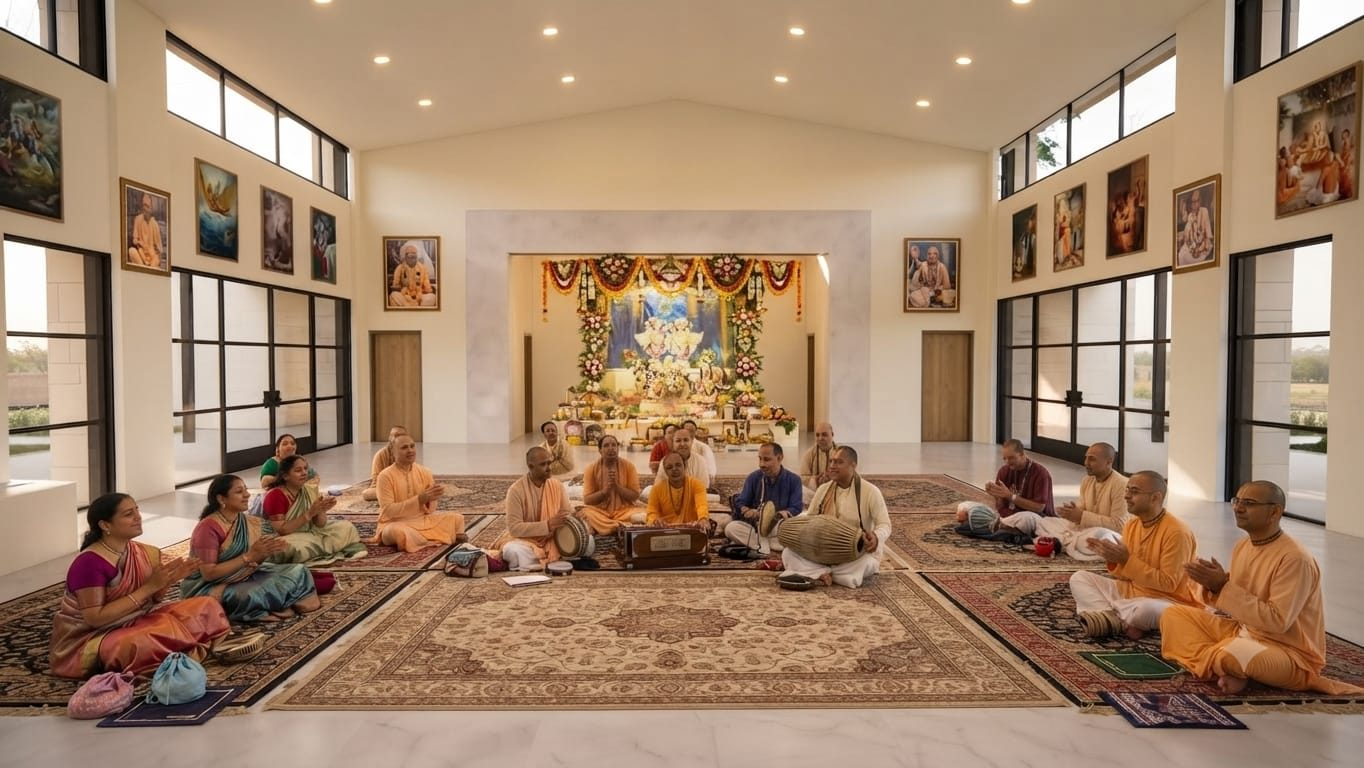
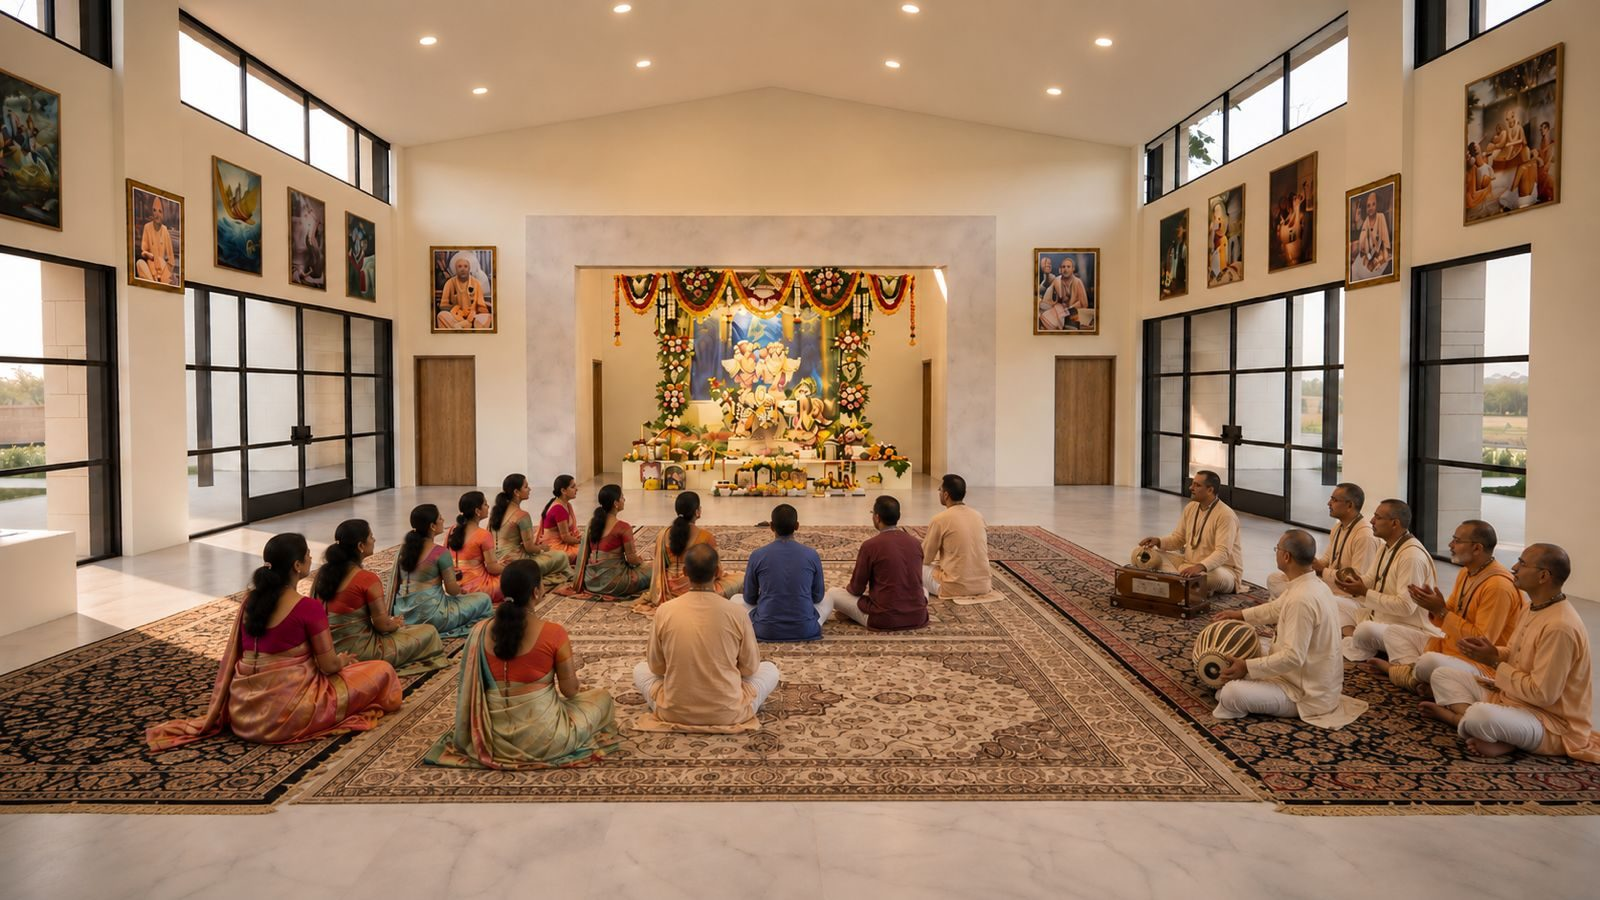
update 1 sept - saurabh
hero change- contact update- photos update

diff --git a/src/lib/data.ts b/src/lib/data.ts
@@ -20,6 +20,7 @@ export const site = {
   },
   // Direct temple contacts.
   contactPeople: [
+    { name: "Abhay Charan Das", phone: "+1-512-762-6644" },
     { name: "Caitanyavani Das", phone: "+1-512-689-6971" },
     { name: "Sravanananda Das", phone: "+1-408-594-8864" },
   ],
@@ -138,7 +139,7 @@ export const weeklySchedule = [
 export const heroSlides = [
   {
     key: "sunday",
-    image: "/temple-renderings/interior-02-great-hall.jpg",
+    image: "/hero/sunday-program.jpg",
     eyebrow: "Every Sunday",
     title: "Join Us for the Sunday Program",
     body: "Kirtan, scripture study, and a free feast — every Sunday, open to everyone.",
@@ -150,19 +151,6 @@ export const heroSlides = [
     ],
   },
   {
-    key: "weekly",
-    image: "/temple-renderings/interior-01-altar-hall.jpg",
-    eyebrow: "Every Day",
-    title: "Temple Life, All Week Long",
-    body: "Morning and evening aarti, daily scripture class, and Sunday celebrations — there's always a way to connect.",
-    primaryCta: { label: "View Daily Programs", href: "/locations/daily" },
-    schedule: [
-      { time: "4:30 AM", title: "Mangala Aarti & Tulasi Worship — Daily" },
-      { time: "7:15 AM", title: "Srimad Bhagavatam Class — Daily" },
-      { time: "6:30 PM", title: "Gaura Aarti — Daily" },
-    ],
-  },
-  {
     key: "temple",
     image: "/temple-renderings/exterior-04-front-entrance-pool.jpg",
     eyebrow: "A Gift for Generations",
@@ -171,7 +159,61 @@ export const heroSlides = [
     primaryCta: { label: "Explore the New Temple", href: "/locations/new-temple" },
     stat: givingProgressLabel(),
   },
+  {
+    key: "govardhan",
+    image: "/hero/govardhan-puja.jpg",
+    eyebrow: "Annual Festival",
+    title: "Govardhan Puja",
+    body: "An Annakuta offering of 108 preparations and a re-enactment of Krishna lifting Govardhan Hill — join us for this beloved celebration.",
+    primaryCta: { label: "See Festival Calendar", href: "/get-involved#events" },
+  },
+  {
+    key: "kirtan",
+    image: "/hero/kirtan.jpg",
+    eyebrow: "Chant Together",
+    title: "Kirtan",
+    body: "Congregational chanting of the Hare Krishna maha-mantra — music, dancing, and joy open to everyone, no experience needed.",
+    primaryCta: { label: "See Festival Calendar", href: "/get-involved#events" },
+  },
 ] as const;
+
+// New temple construction status — Sri Sri Radha Damodar Temple.
+// Single source of truth; update here and it reflects everywhere it's shown
+// (currently the New Temple location page).
+export const constructionUpdates = {
+  templeName: "Sri Sri Radha Damodar Temple",
+  milestones: [
+    {
+      title: "Site Plan Approved by City",
+      detail: "Completed by our civil engineering team.",
+      date: "2024",
+      done: true,
+    },
+    {
+      title: "Building Permit Approved by City",
+      date: "February 2026",
+      done: true,
+    },
+    {
+      title: "General Contractor Bidding Process Completed",
+      date: "July 2026",
+      done: true,
+    },
+    {
+      title: "Final Round of Fundraising",
+      detail: "Construction can begin once complete.",
+      date: "In progress",
+      done: false,
+    },
+  ],
+  constructionDuration: "10 to 12 months",
+  features: [
+    "Modern design",
+    "48 car parking spots",
+    "Centrally located — an easy commute from both north and south Austin",
+    "Krishna prasadam distribution to begin shortly after the Grand Opening",
+  ],
+};
 
 // Single source of truth for the New Temple capital campaign progress —
 // change these two numbers and the label/percentage everywhere on the site

diff --git a/src/app/locations/new-temple/page.tsx b/src/app/locations/new-temple/page.tsx
@@ -3,7 +3,7 @@ import Image from "next/image";
 import { Button, SectionHeading } from "@/components/ui";
 import { MapPinIcon } from "@/components/devotional-art";
 import { CornerFrame } from "@/components/ornaments";
-import { campaignPercent, givingFunds, locations } from "@/lib/data";
+import { campaignPercent, constructionUpdates, givingFunds, locations } from "@/lib/data";
 
 export const metadata: Metadata = {
   title: "New Temple",
@@ -120,6 +120,59 @@ export default function NewTempleLocationPage() {
             priority
           />
           <CornerFrame tone="gold" size={20} inset={10} />
+        </div>
+      </section>
+
+      {/* Construction progress & temple features */}
+      <section className="mx-auto max-w-6xl px-4 sm:px-6 py-16 sm:py-20">
+        <SectionHeading
+          eyebrow="Where Things Stand"
+          title="Construction Progress"
+          description={`${constructionUpdates.templeName} — the latest on where the project stands, and what to expect once ground is broken.`}
+        />
+        <div className="mt-10 grid lg:grid-cols-2 gap-12">
+          <div>
+            <h3 className="font-display text-lg font-semibold text-navy">Construction Updates</h3>
+            <ol className="mt-5 space-y-5">
+              {constructionUpdates.milestones.map((m, i) => (
+                <li key={m.title} className="flex gap-4">
+                  <span
+                    className={`flex h-7 w-7 shrink-0 items-center justify-center rounded-full text-xs font-bold ${
+                      m.done
+                        ? "bg-gold text-white"
+                        : "bg-cream text-gold border border-gold/50"
+                    }`}
+                  >
+                    {m.done ? "✓" : i + 1}
+                  </span>
+                  <div>
+                    <p className="font-semibold text-navy leading-snug">{m.title}</p>
+                    {m.detail && (
+                      <p className="text-sm text-ink-soft mt-0.5">{m.detail}</p>
+                    )}
+                    <p className="text-xs font-semibold uppercase tracking-wide text-gold mt-1">
+                      {m.date}
+                    </p>
+                  </div>
+                </li>
+              ))}
+            </ol>
+            <p className="mt-6 text-sm text-ink-soft leading-relaxed rounded-xl bg-cream border border-cream-deep px-4 py-3">
+              Estimated time needed to construct once building begins:{" "}
+              <span className="font-semibold text-navy">{constructionUpdates.constructionDuration}</span>.
+            </p>
+          </div>
+          <div>
+            <h3 className="font-display text-lg font-semibold text-navy">Temple Features</h3>
+            <ul className="mt-5 space-y-4">
+              {constructionUpdates.features.map((f) => (
+                <li key={f} className="flex gap-3 text-sm text-ink-soft leading-relaxed">
+                  <span className="text-gold font-bold">•</span>
+                  {f}
+                </li>
+              ))}
+            </ul>
+          </div>
         </div>
       </section>
 

diff --git a/src/app/virtual-tour/page.tsx b/src/app/virtual-tour/page.tsx
@@ -1,6 +1,7 @@
 import type { Metadata } from "next";
+import Image from "next/image";
 import { PageHero, SectionHeading, Button, Eyebrow } from "@/components/ui";
-import { OrnamentDivider } from "@/components/ornaments";
+import { CornerFrame, OrnamentDivider } from "@/components/ornaments";
 import VirtualTourGallery from "@/components/VirtualTourGallery";
 import { campaignPercent, givingFunds } from "@/lib/data";
 
@@ -29,6 +30,50 @@ export default function VirtualTourPage() {
         />
         <div className="mt-12">
           <VirtualTourGallery />
+        </div>
+      </section>
+
+      {/* Site plan & landmark — approved civil plan and where the property
+          sits within the surrounding neighborhood. */}
+      <section className="bg-cream">
+        <div className="mx-auto max-w-6xl px-4 sm:px-6 py-16 sm:py-20">
+          <SectionHeading
+            eyebrow="The Site"
+            title="Site Plan & Landmark"
+            description="The approved civil site plan for the property, and an aerial view showing exactly where the new temple will sit within the surrounding neighborhood."
+          />
+          <div className="mt-10 grid lg:grid-cols-2 gap-8">
+            <div>
+              <div className="relative aspect-[4/3] w-full overflow-hidden rounded-2xl border border-cream-deep bg-white shadow-sm">
+                <Image
+                  src="/new-temple/site-plan.jpg"
+                  alt="Approved civil site plan for the new ISKCON Austin temple property"
+                  fill
+                  sizes="(min-width: 1024px) 50vw, 100vw"
+                  className="object-contain"
+                />
+                <CornerFrame tone="gold" size={18} inset={10} />
+              </div>
+              <p className="mt-3 text-sm text-ink-soft leading-relaxed">
+                The city-approved overall site plan, prepared by Civilitude Engineers &amp; Planners — showing the temple building, parking, and site circulation.
+              </p>
+            </div>
+            <div>
+              <div className="relative aspect-[4/3] w-full overflow-hidden rounded-2xl border border-cream-deep shadow-sm">
+                <Image
+                  src="/new-temple/site-landmark-aerial.jpg"
+                  alt="Aerial landmark view of the new temple property and surrounding Austin neighborhood"
+                  fill
+                  sizes="(min-width: 1024px) 50vw, 100vw"
+                  className="object-cover"
+                />
+                <CornerFrame tone="white" size={18} inset={10} />
+              </div>
+              <p className="mt-3 text-sm text-ink-soft leading-relaxed">
+                An aerial view of the vacant lot and its surrounding neighborhood, on the corner of Collinwood West Drive and the main road — easy to find and easy to reach.
+              </p>
+            </div>
+          </div>
         </div>
       </section>
 

diff --git a/src/components/JoinCourseBanner.tsx b/src/components/JoinCourseBanner.tsx
@@ -1,0 +1,46 @@
+import { ScriptureIcon } from "@/components/devotional-art";
+import { OrnamentDivider } from "@/components/ornaments";
+
+/**
+ * Promotional banner inviting visitors to sign up for the daily thought-of-
+ * the-day email and the spiritual e-course, hosted externally at
+ * joincourse.com. Dropped on the pages where visitors are most likely to be
+ * ready to go deeper: Home, Visit, Get Involved, and Contact.
+ */
+export default function JoinCourseBanner() {
+  return (
+    <section className="relative overflow-hidden bg-navy text-white">
+      <div className="absolute inset-0 pattern-dots text-white/[0.05]" aria-hidden />
+      <div className="mx-auto max-w-4xl px-4 sm:px-6 py-16 sm:py-20 relative text-center">
+        <span className="mx-auto flex h-14 w-14 items-center justify-center rounded-full bg-white/10 text-gold-light">
+          <ScriptureIcon className="w-7 h-7" />
+        </span>
+        <p className="mt-5 text-xs sm:text-sm font-semibold uppercase tracking-[0.25em] text-gold-light">
+          Grow Your Practice
+        </p>
+        <h2 className="mt-3 font-display text-3xl sm:text-4xl font-semibold text-balance">
+          Join Our Courses
+        </h2>
+        <p className="mt-4 text-white/85 leading-relaxed max-w-xl mx-auto">
+          Sign up for our daily thought for the day and spiritual e-course.
+        </p>
+        <p className="mt-2 text-sm text-white/60 leading-relaxed max-w-xl mx-auto">
+          A short, free lesson in your inbox each day — simple wisdom from the
+          Bhagavad-gita to help you start every morning with Krishna
+          consciousness.
+        </p>
+        <OrnamentDivider center tone="white" className="mt-6" />
+        <div className="mt-6">
+          <a
+            href="http://joincourse.com/"
+            target="_blank"
+            rel="noopener noreferrer"
+            className="inline-flex items-center justify-center gap-2 rounded-full bg-gold px-7 py-3 text-sm font-semibold text-white hover:bg-gold-light transition-colors shadow-sm"
+          >
+            Sign Up for Free
+          </a>
+        </div>
+      </div>
+    </section>
+  );
+}

diff --git a/src/app/contact/page.tsx b/src/app/contact/page.tsx
@@ -3,11 +3,12 @@ import { Card, PageHero, SectionHeading } from "@/components/ui";
 import { MapPinIcon } from "@/components/devotional-art";
 import { locations, site } from "@/lib/data";
 import GalleryLink from "@/components/GalleryLink";
+import JoinCourseBanner from "@/components/JoinCourseBanner";
 
 export const metadata: Metadata = {
   title: "Contact",
   description:
-    "Get in touch with ISKCON Austin — phone, email, and addresses for Sunday programs, weekday programs, and the new temple.",
+    "Get in touch with ISKCON Austin — phone, email, and addresses for Sunday programs and the new temple.",
 };
 
 const details = [
@@ -36,10 +37,10 @@ export default function ContactPage() {
           <SectionHeading
             eyebrow="Where To Find Us"
             title="Our Locations"
-            description="ISKCON Austin currently operates across three locations — please make sure you're headed to the right one."
+            description="Please make sure you're headed to the right one."
           />
-          <div className="mt-10 grid sm:grid-cols-3 gap-6">
-            {locations.map((l) => (
+          <div className="mt-10 grid sm:grid-cols-2 gap-6 max-w-3xl mx-auto">
+            {locations.filter((l) => l.key !== "daily").map((l) => (
               <Card key={l.key} className="p-6">
                 <span className="flex h-10 w-10 items-center justify-center rounded-full bg-white text-gold border border-cream-deep">
                   <MapPinIcon className="w-5 h-5" />
@@ -138,6 +139,8 @@ export default function ContactPage() {
       <div className="pb-16">
         <GalleryLink />
       </div>
+
+      <JoinCourseBanner />
     </div>
   );
 }

diff --git a/src/app/visit/page.tsx b/src/app/visit/page.tsx
@@ -4,6 +4,7 @@ import { ArtPanel, Card, PageHero, SectionHeading } from "@/components/ui";
 import { MapPinIcon, NamasteIcon } from "@/components/devotional-art";
 import { faqs, locations, site, weeklySchedule } from "@/lib/data";
 import GalleryLink from "@/components/GalleryLink";
+import JoinCourseBanner from "@/components/JoinCourseBanner";
 
 export const metadata: Metadata = {
   title: "Visit Us",
@@ -191,6 +192,8 @@ export default function VisitPage() {
       <div className="py-16">
         <GalleryLink />
       </div>
+
+      <JoinCourseBanner />
     </div>
   );
 }

diff --git a/src/app/page.tsx b/src/app/page.tsx
@@ -9,6 +9,7 @@ import {
 import { CornerFrame, OrnamentDivider } from "@/components/ornaments";
 import HeroCarousel from "@/components/HeroCarousel";
 import LocationCards from "@/components/LocationCards";
+import JoinCourseBanner from "@/components/JoinCourseBanner";
 import { campaignPercent, events, givingFunds, locations, weeklySchedule } from "@/lib/data";
 
 export default function HomePage() {
@@ -205,6 +206,8 @@ export default function HomePage() {
           </p>
         </div>
       </section>
+
+      <JoinCourseBanner />
     </div>
   );
 }

diff --git a/src/app/get-involved/page.tsx b/src/app/get-involved/page.tsx
@@ -10,6 +10,7 @@ import {
 import EventsList from "@/components/EventsList";
 import { getInvolvedOptions, ongoingPrograms } from "@/lib/data";
 import GalleryLink from "@/components/GalleryLink";
+import JoinCourseBanner from "@/components/JoinCourseBanner";
 
 const PROGRAM_ICONS = [ScriptureIcon, KirtanIcon, PrasadamIcon];
 
@@ -137,6 +138,8 @@ export default function GetInvolvedPage() {
       <div className="pb-16">
         <GalleryLink />
       </div>
+
+      <JoinCourseBanner />
     </div>
   );
 }
